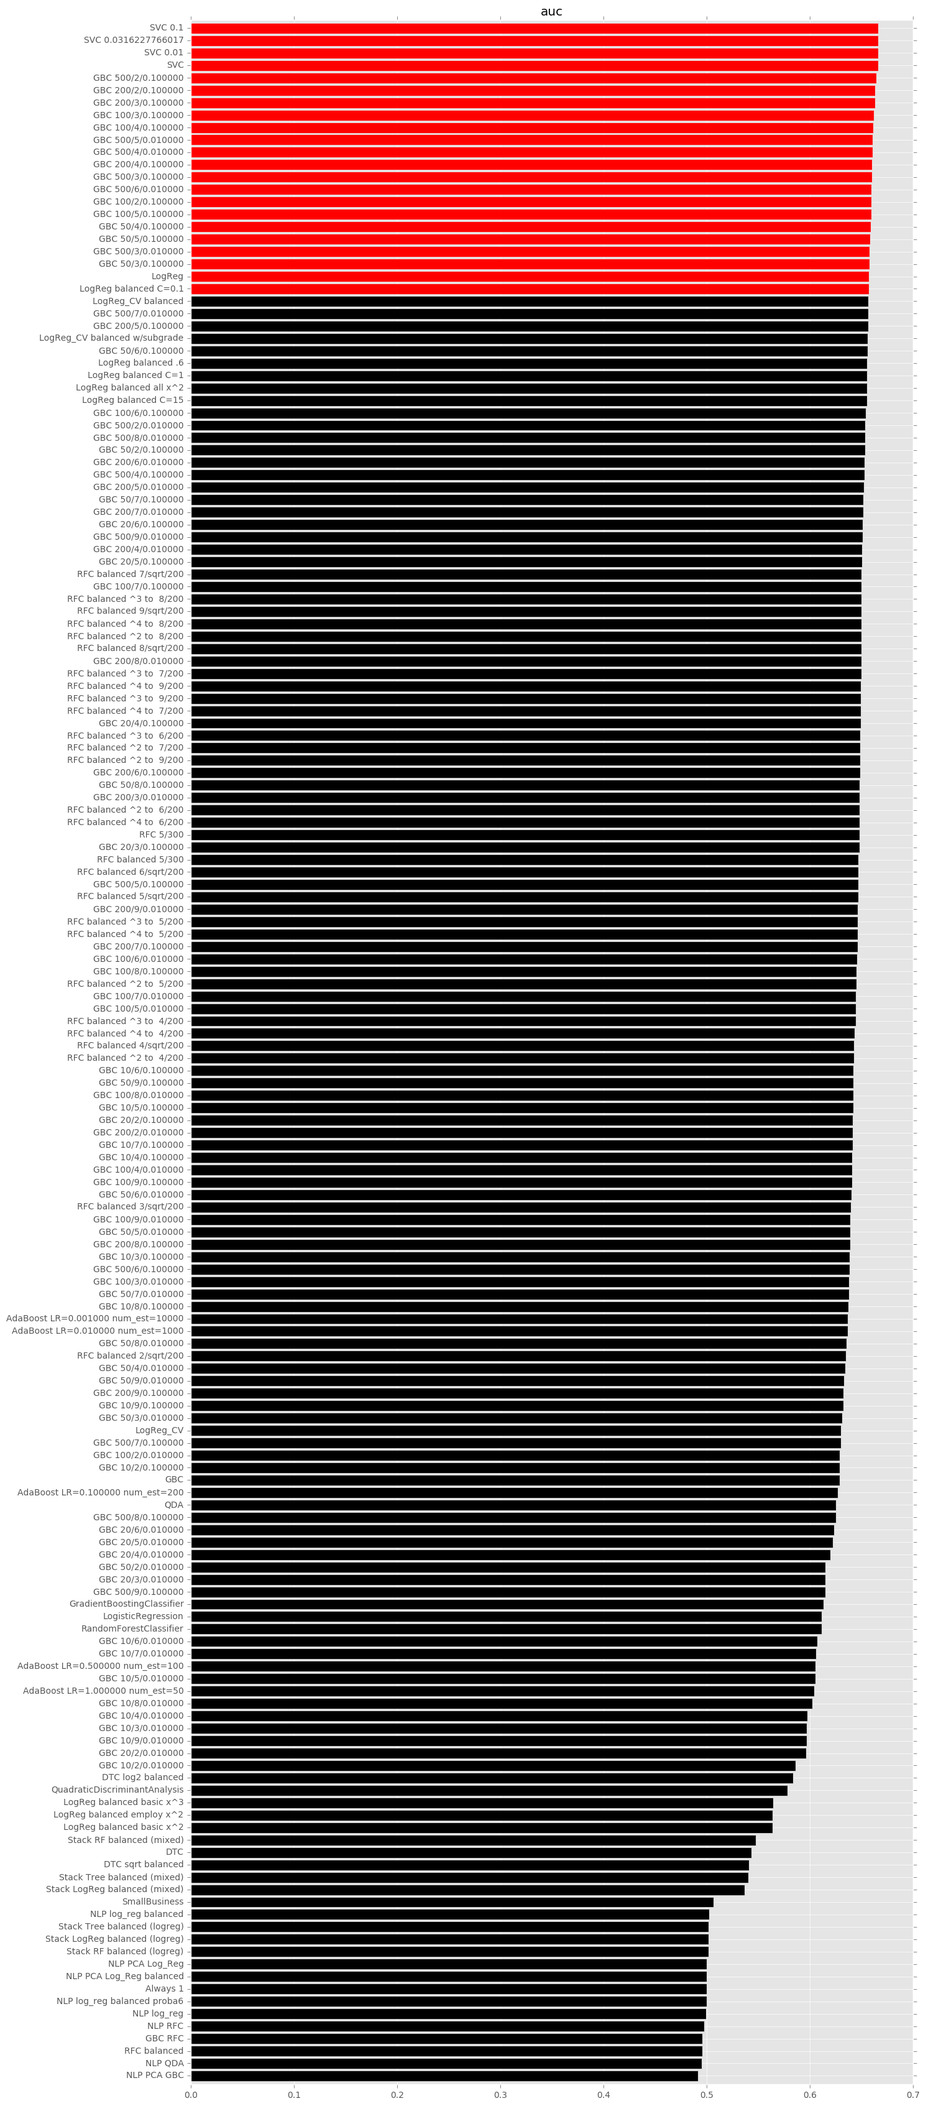
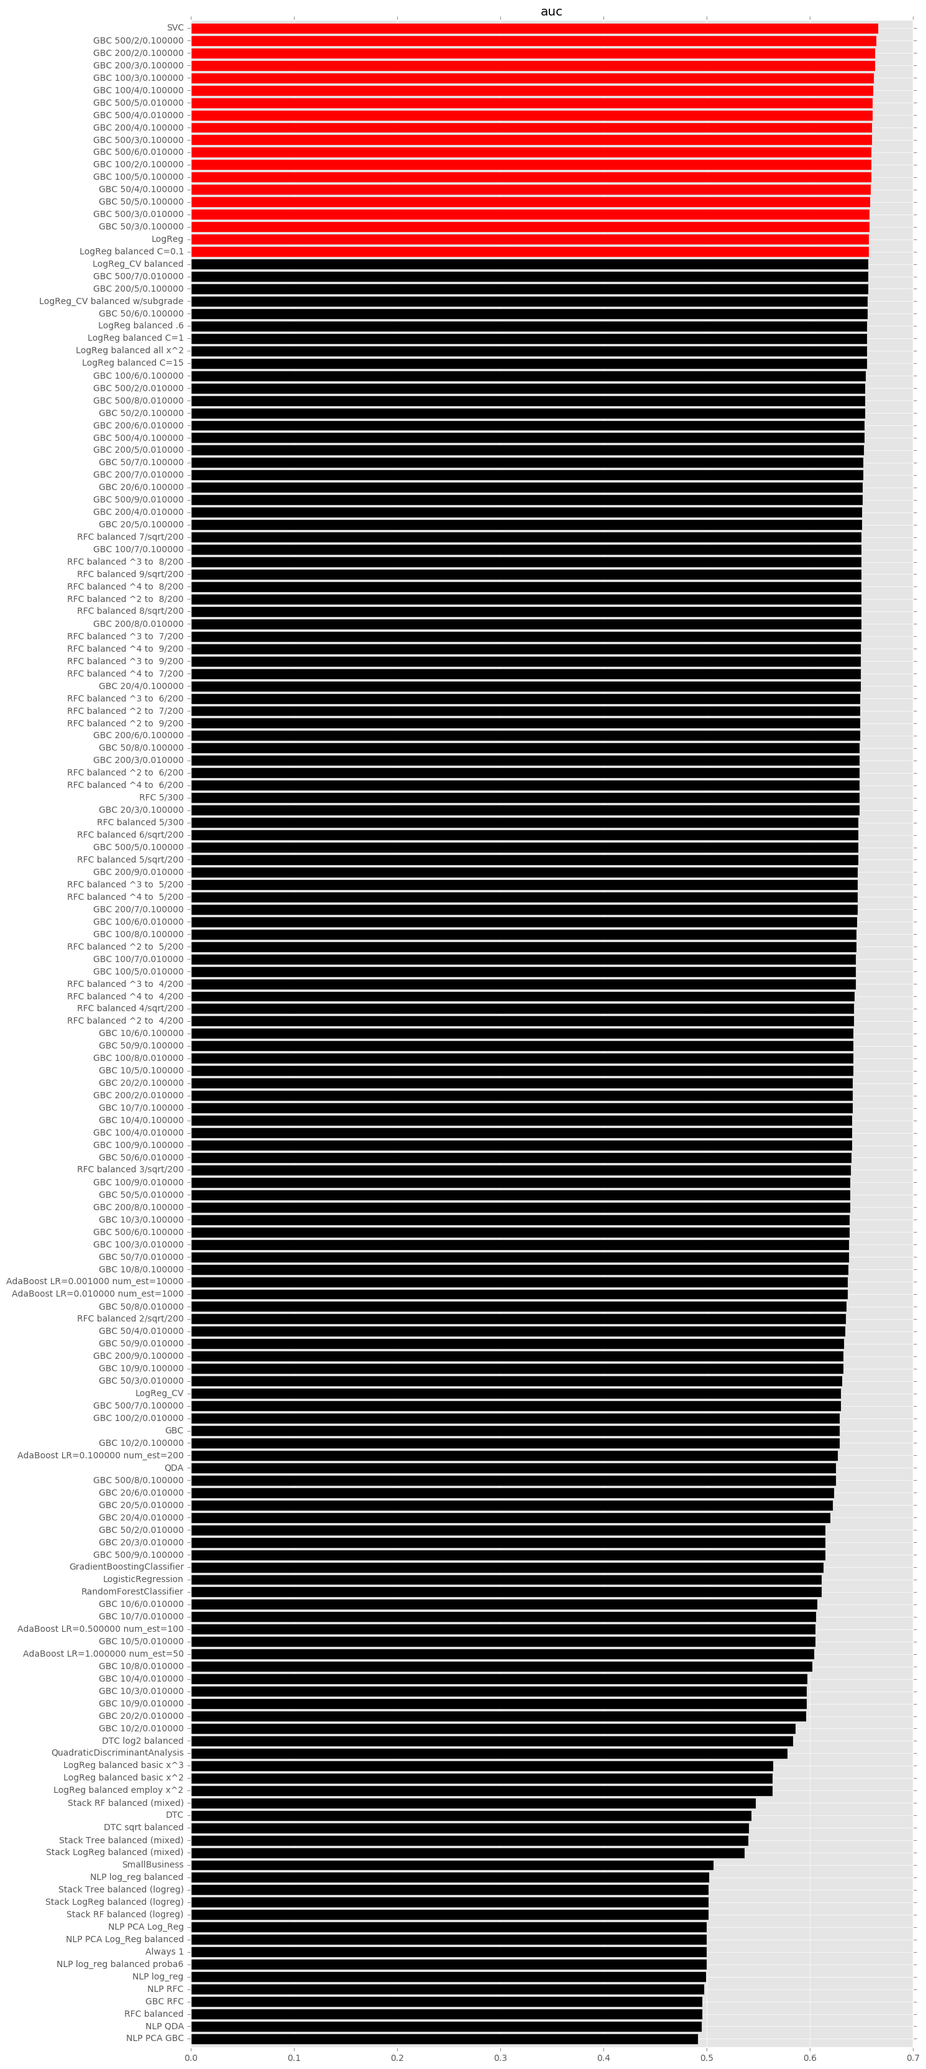
Cleaned up HTML

diff --git a/docs/05-Analysis.html b/docs/05-Analysis.html
@@ -25,42 +25,88 @@
 
 <h2>Part 5: Modeling Analysis</h2>
 
-<p>In this part, we will compare the models developed in the part 4 with each other. On the basis of the strongest model(s), we will look at the predictors that most influence results.</p>
+<p>In this part, we will compare the models developed in the part 4
+with each other. On the basis of the strongest model(s), we will look
+at the predictors that most influence results.</p>
 
-<p>We will also explore how participants in the Lending Club ecology have varying criteria for success. For example, the Lending Club institution wishes to improve their grading algorithm and set interest rates commensurate with risk. An individual investor, by contrast, wishes to minimize the likelihood of default. Alternatively, an investor may wish to maximize their total return, taking into account that a default often follows a history of partial payments, thereby generating positive revenue. Choosing an appropriate loss function affects selection of the most successful model, which is the focus of this final report part.</p>
+<p>We will also explore how participants in the Lending Club ecology
+have varying criteria for success. For example, the Lending Club
+institution wishes to improve their grading algorithm and set interest
+rates commensurate with risk. An individual investor, by contrast,
+wishes to minimize the likelihood of default. Alternatively, an
+investor may wish to maximize their total return, taking into account
+that a default often follows a history of partial payments, thereby
+generating positive revenue. Choosing an appropriate loss function
+affects selection of the most successful model, which is the focus of
+this final report part.</p>
 
 
 <h3>Summary comparison of all models:</h3>
 
-<p>The following table and bar charts compare all of the models in our notebook. For most metrics, we take as a baseline the balanced cross-validated logistic regression model, which has an AUC of 0.657, a test F1 of 0.534, and a test precision of 0.781. For classification accuracy, we take as a baseline the .848 rate resulting from the "Always 1" model (as well as all of the unbalanced models). <em>In each case, results that surpass our benchmark are highlighted in red.</em></p>
+<p>The following table and bar charts compare all of the models in our
+notebook. For most metrics, we take as a baseline the balanced
+cross-validated logistic regression model, which has an AUC of 0.657,
+a test F1 of 0.534, and a test precision of 0.781. For classification
+accuracy, we take as a baseline the .848 rate resulting from the
+"Always 1" model (as well as all of the unbalanced models). <em>In
+each case, results that surpass our benchmark are highlighted in
+red.</em></p>
   
-<p>Note that in cases where we optimized model hyperparameters using a grid of values, only the optimal hyperparameters are represented in this report.</p>
+<p>Note that in cases where we optimized model hyperparameters using a
+grid of values, all the values <!--only the optimal hyperparameters-->
+are represented in this report.</p>
 
 <p>Two groups of models stand out for performance:</p>
 
-  <ul>
-<li>The <b>Support Vector Classifier</b> (with an RBF kernel) has the highest AUC overall, at 0.666, irregardless of hyperparameter value. <i>C</i>. This model group does not do particularly well with metrics other than AUC, however. SVC performance lets us improve precision with the lowest cost in recall; but based on F1 and accuracy scores in the test data, this model group doesn't start with a strong minimum. (Given additional research time, we would also experiment with <i>gamma</i> values, which might improve performance further.)</li>
+<ul>
+  <li>The <b>Support Vector Classifier</b> (with an RBF kernel) has
+  the highest AUC overall, at 0.666, irregardless of hyperparameter
+  value. <i>C</i>. This model group does not do particularly well with
+  metrics other than AUC, however. SVC performance lets us improve
+  precision with the lowest cost in recall; but based on F1 and
+  accuracy scores in the test data, this model group doesn't start
+  with a strong minimum. (Given additional research time, we would
+  also experiment with <i>gamma</i> values, which might improve
+  performance further.)</li>
 
-<li>The <b>Gradient Booster Classifier</b> group of models are competitive in AUC for some hyperparameter values. With 100 estimators, the AUC range is 0.659--0.662; with 500 estimators, the result is as high as 0.664. These results almost match those from SVC -- it is possible that additional estimators could give GBC an edge over SVC.</li>
-  </ul>
-  
-<p>Some other model groups exceed the baseline in some way, but they have weaknesses that may undercut their usefulness in general:</p>
-
-  <ul>
-<li>The <b>Decision Tree Classifier</b> models scored well vis-a-vis precision on the test set, but were weak in other measures. Given that we have aimed to maximize precision, these models are worth considering.</li>
-
-<li>Some <b>polynomial balanced Logistic Regression Classifiers with limited feature inputs</b> have high test F1 and precision scores, but low AUC and low test classification accuracy.</li>
-
-<li>Some <b>NLP</b> models did well in the F1 and overall scores of the test set; but because the NLP models represent only a loan subset, with different default properties and frequencies, we cannot directly compare these results to the baselines.</li>
+  <li>The <b>Gradient Booster Classifier</b> group of models are
+  competitive in AUC for some hyperparameter values. With 100
+  estimators, the AUC range is 0.659--0.662; with 500 estimators, the
+  result is as high as 0.664. These results almost match those from
+  SVC -- it is possible that additional estimators could give GBC an
+  edge over SVC.</li>
 </ul>
   
-<p><em>In summary, using AUC as our metric, the SVC and GBC models outperform the baseline model by about the same amount -- each with an AUC around 0.666, compared to 0.657 for the baseline model.</em> Both SVC and GBC models have reasonable but not excellent values for other metrics.</p>
+<p>Some other model groups exceed the baseline in some way, but they
+have weaknesses that may undercut their usefulness in general:</p>
 
-<p><a href="#continued_1">[Skip to ROC Area Under Curve]</a></p>
+<ul>
+  <li>The <b>Decision Tree Classifier</b> models scored well vis-a-vis
+  precision on the test set, but were weak in other measures. Given
+  that we have aimed to maximize precision, these models are worth
+  considering.</li>
+
+  <li>Some <b>polynomial balanced Logistic Regression Classifiers with
+  limited feature inputs</b> have high test F1 and precision scores,
+  but low AUC and low test classification accuracy.</li>
+
+  <li>Some <b>NLP</b> models did well in the F1 and overall scores of
+  the test set; but because the NLP models represent only a loan
+  subset, with different default properties and frequencies, we cannot
+  directly compare these results to the baselines.</li>
+</ul>
+  
+<p><em>In summary, using AUC as our metric, the SVC and GBC models
+outperform the baseline model by about the same amount -- each with an
+AUC around 0.666, compared to 0.657 for the baseline model.</em> Both
+SVC and GBC models have reasonable but not excellent values for other
+metrics.</p>
+
+<p><a href="#continued_1">[Skip to <i>ROC Area Under Curve</i>]</a></p>
 
 <h4>Modelling Results</h4>
   
-<p style="margin-left:5%;font-family:Verdana,sans-serif;"><em> Red cells indicate results exceeding baseline.</em></p>
+<p class='model-note'>Red cells indicate results exceeding baseline.</p>
   
 <div class='summary_table'>
 <a></a><a></a><table><thead><tr><th>Model</th>
@@ -240,65 +286,135 @@
 <tr><th>Stack Tree balanced (mixed)</th><td>0.540</td><td>0.805</td><td>0.808</td><td>0.690</td><td>0.374</td><td class='better'>0.815</td><td>0.689</td></tr>
 </tbody></table>
 </div>
-<p><a href="#continued_2">[Skip to Test Classification Accuracy]</a></p>
 
-  <a name='continued_1' />
+<a name='continued_1' />
+<p><a href="#continued_2">[Skip to <i>Test Classification Accuracy</i>]</a></p>
+
   
 <h4 style="margin-top: 3%;">ROC Area Under Curve</h4>
 
-<p style="margin-left:15%;font-family:Verdana,sans-serif;"><em> Red bars indicate results exceeding baseline.</em></p>
+<p class='model-note'>Red cells indicate results exceeding baseline.</p>
   
 <p><img src="images/score_auc.png"  style="width: 90%;"></p>
-<p><a href="#continued_3">[Skip to Test Precision]</a></p>
+<a name='continued_2' />
+<p><a href="#continued_3">[Skip to <i>Test Precision</i>]</a></p>
 
-  <a name='continued_2' />
-  
-  <br>
-  
 <h4 style="margin-top: 2%;">Test Classification Accuracy</h4>
 
-<p style="margin-left:15%;font-family:Verdana,sans-serif;"><em> Red bars indicate results exceeding baseline.</em></p>
+<p class='model-note'>Red cells indicate results exceeding baseline.</p>
   
 <p><img src="images/score_test_score.png" style="width: 90%;"></p>
-<p><a href="#continued_4">[Skip to Using Payback Ratio]</a></p>
+<a name='continued_3' />
+<p><a href="#continued_4">[Skip to <i>Using Payback Ratio</i>]</a></p>
 
-  <a name='continued_3' />
-  
-  <br>
   
 <h4 style="margin-top: 2%;">Test Precision</h4>
 
-<p style="margin-left:15%;font-family:Verdana,sans-serif;"><em> Red bars indicate results exceeding baseline.</em></p>
+<p class='model-note'>Red cells indicate results exceeding baseline.</p>
   
 <p><img src="images/score_test_prec.png" style="width: 90%;"></p>
 
 <a name='continued_4' />
 <h3 style="margin-top:2%;">Using &ldquo;Payback Ratio&rdquo; to transform classification into regression</h3>
 
-<p>The modelling outcome that we&rsquo;ve used thus far is a categorical one: a &ldquo;Fully Paid&rdquo; loan is assigned the label 1, and a loan that has defaulted is assigned the label 0. By replacing this outcome with a continuous &ldquo;payback ratio&rdquo; measure, we can investigate the use of regression techniques.</p>
+<p>The modelling outcome that we&rsquo;ve used thus far is a
+categorical one: a &ldquo;Fully Paid&rdquo; loan is assigned the label
+1, and a loan that has defaulted is assigned the label 0. By replacing
+this outcome with a continuous &ldquo;payback ratio&rdquo; measure, we
+can investigate the use of regression techniques.</p>
 
-<p>We define the payback ratio as follows: For any given loan, the amount that has been paid by the borrower is the sum of three data columns: &ldquo;total received principal&rdquo;, &ldquo;total received interest&rdquo;, and &ldquo;total received late fees&rdquo;. In addition, the amount that a borrower is expected to pay is the value in the &ldquo;installment&rdquo; column times the overall number of payments. We have previously filtered loans to 36-month terms earlier in this modeling pipeline. The ratio of &ldquo;actual payments&rdquo; / &ldquo;expected payments&rdquo; is the raw payback ratio. This ratio is compatible with category labels of 0 and 1: a loan that is paid as expected will result in &ldquo;1&rdquo; using both approaches, and a loan in which the borrower &ldquo;takes the money and runs&rdquo; will result in &ldquo;0&rdquo; with both approaches. </p>
+<p>We define the payback ratio as follows: For any given loan, the
+amount that has been paid by the borrower is the sum of three data
+columns: &ldquo;total received principal&rdquo;, &ldquo;total received
+interest&rdquo;, and &ldquo;total received late fees&rdquo;. In
+addition, the amount that a borrower is expected to pay is the value
+in the &ldquo;installment&rdquo; column times the overall number of
+payments. We have previously filtered loans to 36-month terms earlier
+in this modeling pipeline. The ratio of &ldquo;actual payments&rdquo;
+/ &ldquo;expected payments&rdquo; is the raw payback ratio. This ratio
+is compatible with category labels of 0 and 1: a loan that is paid as
+expected will result in &ldquo;1&rdquo; using both approaches, and a
+loan in which the borrower &ldquo;takes the money and runs&rdquo; will
+result in &ldquo;0&rdquo; with both approaches. </p>
 
-<p>We will need to make one further adjustment. If a loan is paid off early, then the &ldquo;actual payments&rdquo; will be less than the &ldquo;expected payments&rdquo; but the time value of money will make up the difference -- since the loan was repaid early, the money can be reinvested, and no loss is incurred by the investor. Consequently, for loans that are &ldquo;Fully Paid&rdquo; we take the payment ratio to be 1, and it is only for written-off loans that we compute the actual payment ratio.</p>
+<p>We will need to make one further adjustment. If a loan is paid off
+early, then the &ldquo;actual payments&rdquo; will be less than the
+&ldquo;expected payments&rdquo; but the time value of money will make
+up the difference -- since the loan was repaid early, the money can be
+reinvested, and no loss is incurred by the investor. Consequently, for
+loans that are &ldquo;Fully Paid&rdquo; we take the payment ratio to
+be 1, and it is only for written-off loans that we compute the actual
+payment ratio.</p>
 
-<p>Having defined our continuous outcome, we can now employ linear regression (with various basis functions) for modelling. Our first attempt is with cross-validated Ridge regression, which gives a test R<sup>2</sup> of 0.036 -- not an encouraging result. (This is nevertheless much better than the result from unregularized linear regression, which gives a test R<sup>2</sup> of only 0.006. Cross-validated Lasso gives a test R<sup>2</sup> of 0.014.)</p>
+<p>Having defined our continuous outcome, we can now employ linear
+regression (with various basis functions) for modelling. Our first
+attempt is with cross-validated Ridge regression, which gives a test
+R<sup>2</sup> of 0.036 -- not an encouraging result. (This is
+nevertheless much better than the result from unregularized linear
+regression, which gives a test R<sup>2</sup> of only 0.006.
+Cross-validated Lasso gives a test R<sup>2</sup> of 0.014.)</p>
 
-<p>We try again with cross-terms and, for the continuous predictors, polynomial terms up to ninth degree -- all of these give increasingly negative values for the test R<sup>2</sup>.</p>
+<p>We try again with cross-terms and, for the continuous predictors,
+polynomial terms up to ninth degree -- all of these give increasingly
+negative values for the test R<sup>2</sup>, and are therefore rejected.</p>
 
-<p>Finally, we try using a cutoff to transform our linear regression model back to a classification problem. This approach does not perform well, with an AUC of 0.536:</p>
+<p>Finally, we try using a cutoff to transform our linear regression
+model back to a classification problem. This approach does not perform
+well, with an AUC of 0.536:</p>
 
 <p><img src="images/image17.png" style="width: 40%;"></p>
 
 <h3>Modelling goals and success opportunities</h3>
 
-<p>In Part 2 of this report, we discussed the problem posed by the selection bias in this data. In particular, because the corpus includes only approved loans, we cannot assess whether our model correctly reduces the proportion of false negatives. Consequently, the only way to improve our classification rate is to reduce the proportion of false positives. If that task were easy, the existing LC models would have already eliminated these false positives from the Kaggle data set. Our models have unfortunately little to offer Lending Club as an organization.</p>
+<p>In Part 2 of this report, we discussed the problem posed by the
+selection bias in this data. In particular, because the corpus
+includes only approved loans, we cannot assess whether our model
+correctly reduces the proportion of false negatives. Consequently, the
+only way to improve our classification rate is to reduce the
+proportion of false positives. If that task were easy, the existing LC
+models would have already eliminated these false positives from the
+Kaggle data set. Our models have unfortunately little to offer Lending
+Club as an organization.</p>
 
-<p>On the other hand, there is a relevant principle to follow: &ldquo;I don&rsquo;t have to outrun the bear, I only have to outrun you&rdquo;. Nate Silver makes a similar observation in his book <em>The Signal and The Noise</em> (Penguin, 2015). So we can definitely offer value to the individual Lending Club member. Say that a member wishes to invest an arbitrary amount of money, with a maximum established for the risk placed on any one loan. We can choose one of our models and use it to rank all available loans in order of probability of being paid in full. We can then allocate the maximum per-loan amount (or the remaining to-be-funded balance) on the top-ranked loans until the member&rsquo;s resources are fully allocated. This triage approach would serve as a sort of intermediary or para-advisor between Lending Club and the individual investor, sorting out complexity, reducing uncertainty, and increasing confidence in the process.</p>
+<p>On the other hand, there is a relevant principle to follow:
+&ldquo;I don&rsquo;t have to outrun the bear, I only have to outrun
+you&rdquo;. Nate Silver makes a similar observation in his
+book <em>The Signal and The Noise</em> (Penguin, 2015). So we can
+definitely offer value to the individual Lending Club member. Say that
+a member wishes to invest an arbitrary amount of money, with a maximum
+established for the risk placed on any one loan. We can choose one of
+our models and use it to rank all available loans in order of
+probability of being paid in full. We can then allocate the maximum
+per-loan amount (or the remaining to-be-funded balance) on the
+top-ranked loans until the member&rsquo;s resources are fully
+allocated. This triage approach would serve as a sort of intermediary
+or para-advisor between Lending Club and the individual investor,
+sorting out complexity, reducing uncertainty, and increasing
+confidence in the process.</p>
 
 <h3>Future Research</h3>
 
-<p>Future research suggested by this work would proceed in two primary directions. Both of these directions are broadly investor-side. First, it would be useful to validate the benefit of priority ranking approved loans as a route to financial gain. This validation would likely lead to model refinements and perhaps tuning of the data science pipeline on the basis of investor feedback. Second, it would be highly useful to investigate the nature of unapproved loans with Lending Club. An external researcher might potentially obtain a large budget to deliberately fund loans with a high probability of default, in order to study their properties and to assess the model&rsquo;s true recall rate. By contrast, Lending Club itself might make data available for unfunded loans, sanitized with particular care. </p>
+<p>Future research suggested by this work would proceed in two primary
+directions. Both of these directions are broadly investor-side. First,
+it would be useful to validate the benefit of priority ranking
+approved loans as a route to financial gain. This validation would
+likely lead to model refinements and perhaps tuning of the data
+science pipeline on the basis of investor feedback. Second, it would
+be highly useful to investigate the nature of unapproved loans with
+Lending Club. An external researcher might potentially obtain a large
+budget to deliberately fund loans with a high probability of default,
+in order to study their properties and to assess the model&rsquo;s
+true recall rate. By contrast, Lending Club itself might make data
+available for unfunded loans, sanitized with particular care. </p>
 
-<p>More purely technical future research could be productive as well. For example, deep learning approaches (such as neural networks) could be investigated for their utility in extracting additional signal from the noisy LC data. As another example, additional external economic indicators could be examined, in case certain aspects of loan context would shed light on loan performance. In particular, deriving economic predictors from zip codes, analogous to our national economic indicators derived from loan issue date, could be a fruitful line of inquiry.</p>
+<p>More purely technical future research could be productive as well.
+For example, deep learning approaches (such as neural networks) could
+be investigated for their utility in extracting additional signal from
+the noisy LC data. As another example, additional external economic
+indicators could be examined, in case certain aspects of loan context
+would shed light on loan performance. In particular, deriving economic
+predictors from zip codes, analogous to our national economic
+indicators derived from loan issue date, could be a fruitful line of
+inquiry.</p>
 
 </body>

diff --git a/docs/model_performance.html b/docs/model_performance.html
@@ -154,9 +154,6 @@
 <tr><th>RFC balanced ^4 to  9/200</th><td>0.649</td><td>0.823</td><td>0.756</td><td>0.718</td><td>0.365</td><td>0.756</td><td>0.710</td></tr>
 <tr><th>RandomForestClassifier</th><td>0.611</td><td>0.726</td><td>0.774</td><td>0.612</td><td>0.530</td><td>0.782</td><td>0.603</td></tr>
 <tr><th>SVC</th><td class='better'>0.666</td><td>0.724</td><td>0.317</td><td>0.608</td><td>0.001</td><td>0.564</td><td>0.609</td></tr>
-<tr><th>SVC 0.01</th><td class='better'>0.666</td><td>0.724</td><td>0.317</td><td>0.608</td><td>0.001</td><td>0.564</td><td>0.609</td></tr>
-<tr><th>SVC 0.0316227766017</th><td class='better'>0.666</td><td>0.724</td><td>0.317</td><td>0.608</td><td>0.001</td><td>0.564</td><td>0.609</td></tr>
-<tr><th>SVC 0.1</th><td class='better'>0.666</td><td>0.724</td><td>0.317</td><td>0.608</td><td>0.001</td><td>0.564</td><td>0.609</td></tr>
 <tr><th>SmallBusiness</th><td>0.507</td><td>0.911</td><td>0.763</td><td>0.838</td><td>0.034</td><td>0.761</td><td>0.838</td></tr>
 <tr><th>Stack LogReg balanced (logreg)</th><td>0.502</td><td>0.918</td><td>0.556</td><td>0.848</td><td>0.002</td><td>0.564</td><td>0.848</td></tr>
 <tr><th>Stack LogReg balanced (mixed)</th><td>0.536</td><td>0.808</td><td>0.807</td><td>0.693</td><td>0.375</td><td class='better'>0.815</td><td>0.689</td></tr>

diff --git a/docs/cs109a.css b/docs/cs109a.css
@@ -71,8 +71,20 @@ table tr:nth-of-type(odd) {
 
 td.better {
     background-color: #ffd0d0;
+    font-weight: bold
 }
 
 ul.toc {
     margin-bottom: 2%;
 }
+
+p.model-note {
+    margin-left: 5%;
+    font-family: Verdana,sans-serif;
+    font-style: italic;
+}
+
+a:visited {
+    color: blue;
+}
+
